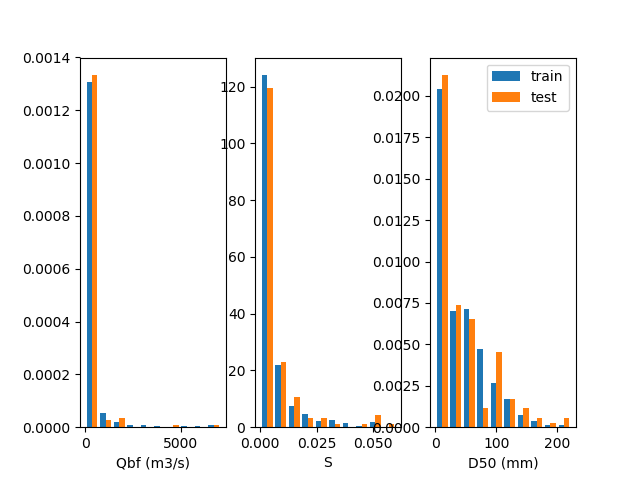
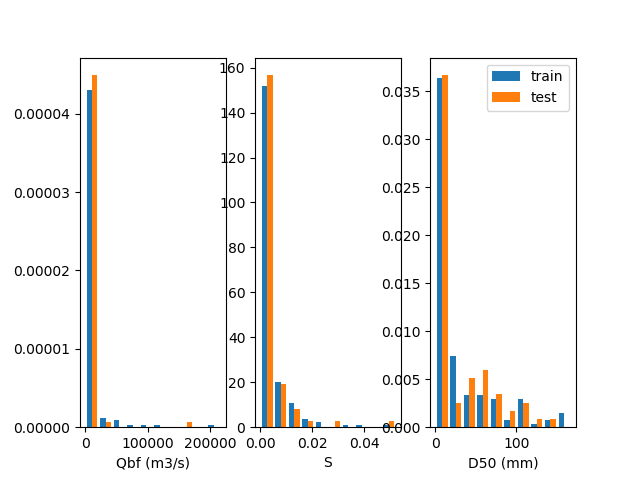
add script for nn for HBS from QD

diff --git a/channel_geom_nn_QDtoHBS.py b/channel_geom_nn_QDtoHBS.py
@@ -7,9 +7,9 @@ from sklearn.preprocessing import MinMaxScaler
 import tensorflow as tf
 
 # read the data
-# df = pd.read_csv('data/mcelroy_dataclean.csv') # read data set using pandas
+df = pd.read_csv('data/mcelroy_dataclean.csv') # read data set using pandas
 # df = pd.read_csv('data/wilkerson_dataclean.csv') # read data set using pandas
-df = pd.read_csv('data/ShieldsJHRData.csv') # read data set using pandas
+# df = pd.read_csv('data/ShieldsJHRData.csv') # read data set using pandas
 # df = pd.read_csv('data/combined.csv') # read data set using pandas
 # df = pd.read_csv('data/combined_modified.csv') # read data set using pandas
 # df = pd.read_csv('data/combined_modified_cut.csv') # read data set using pandas
@@ -44,10 +44,10 @@ scaler = MinMaxScaler() # For normalizing dataset
 # normed = True
 
 # log(x) normalization
-X_train = (np.log10(df_train.drop(['Bbf.m', 'Hbf.m', 'S'], axis=1).values))
-y_train = (np.log10(df_train[['Bbf.m', 'Hbf.m', 'S']].values))
-X_test = (np.log10(df_test.drop(['Bbf.m', 'Hbf.m', 'S'], axis=1).values))
-y_test = (np.log10(df_test[['Bbf.m', 'Hbf.m', 'S']].values))
+X_train = (np.log10(df_train.drop(['Bbf.m', 'Hbf.m'], axis=1).values))
+y_train = (np.log10(df_train[['Bbf.m', 'Hbf.m']].values))
+X_test = (np.log10(df_test.drop(['Bbf.m', 'Hbf.m'], axis=1).values))
+y_test = (np.log10(df_test[['Bbf.m', 'Hbf.m']].values))
 logged = True
 normed = False
 
@@ -82,9 +82,9 @@ def denormalize(df, norm_data):
     """
 
     if logged:
-        df = np.log10(df[['Bbf.m', 'Hbf.m', 'S']].values)
+        df = np.log10(df[['Bbf.m', 'Hbf.m']].values)
     else:
-        df = df[['Bbf.m', 'Hbf.m', 'S']].values
+        df = df[['Bbf.m', 'Hbf.m']].values
     
     if normed:
         scl = MinMaxScaler()
@@ -126,8 +126,8 @@ def nn_model(X_data, input_dim):
     # layer_2 = tf.nn.relu(layer_2)
 
     # output layer multiplying and adding bias then activation function
-    W_O = tf.Variable(tf.random_uniform([n_nodes, 3], dtype = 'float64')) # 3 because there are two outputs
-    b_O = tf.Variable(tf.zeros([3], dtype = 'float64'))
+    W_O = tf.Variable(tf.random_uniform([n_nodes, 2], dtype = 'float64')) # 2 because there are two outputs
+    b_O = tf.Variable(tf.zeros([2], dtype = 'float64'))
     output = tf.add(tf.matmul(layer_1, W_O), b_O)
     # output = tf.add(tf.matmul(layer_2, W_O), b_O)
 
